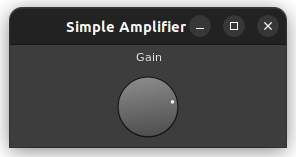
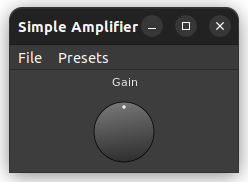
README

diff --git a/eg-amp-robtk.lv2/gui/amp.c b/eg-amp-robtk.lv2/gui/amp.c
@@ -69,12 +69,7 @@ cb_amp_gain (RobWidget* w, void* handle)
 {
 	AmpUI* ui = (AmpUI*)handle;
 
-	//float val = knob_pos_to_gain (robtk_dial_get_value (ui->amp_gain));
 	float val = robtk_dial_get_value (ui->amp_gain);
-	//fprintf(stderr, "ui->amp_gain: %f\n", ui->amp_gain);
-	//fprintf(stderr, "robtk_dial_get_value (ui->amp_gain): %f\n", robtk_dial_get_value (ui->amp_gain));
-	//fprintf(stderr, "val: %f\n", val);
-	//fprintf(stderr, "-----------------------------------------------\n");
 	if (ui->disable_signals) {
 		return TRUE;
 	}
@@ -109,7 +104,7 @@ toplevel (AmpUI* ui, void* const top)
 	// TODO log-scale mapping  -inf || -60 .. +6dB
 
 	ui->amp_gain = robtk_dial_new_with_size (
-		-90.0f, 24.0f, 1.0f,
+		-12.0f, 12.0f, 0.1f,
 		GD_W, GD_H, GD_CX, GD_CY, GD_RAD);
 
 	robtk_dial_set_default (ui->amp_gain, 0.0f);

diff --git a/eg-amp-robtk.lv2/src/amp.h b/eg-amp-robtk.lv2/src/amp.h
@@ -1,4 +1,4 @@
-#define AMP_URI "http://github.com/lherg/lv2/eg-amp-robtk"
+#define AMP_URI "http://lv2plug.in/plugins/eg-amp-robtk"
 
 typedef enum { 
     AMP_GAIN = 0, 
